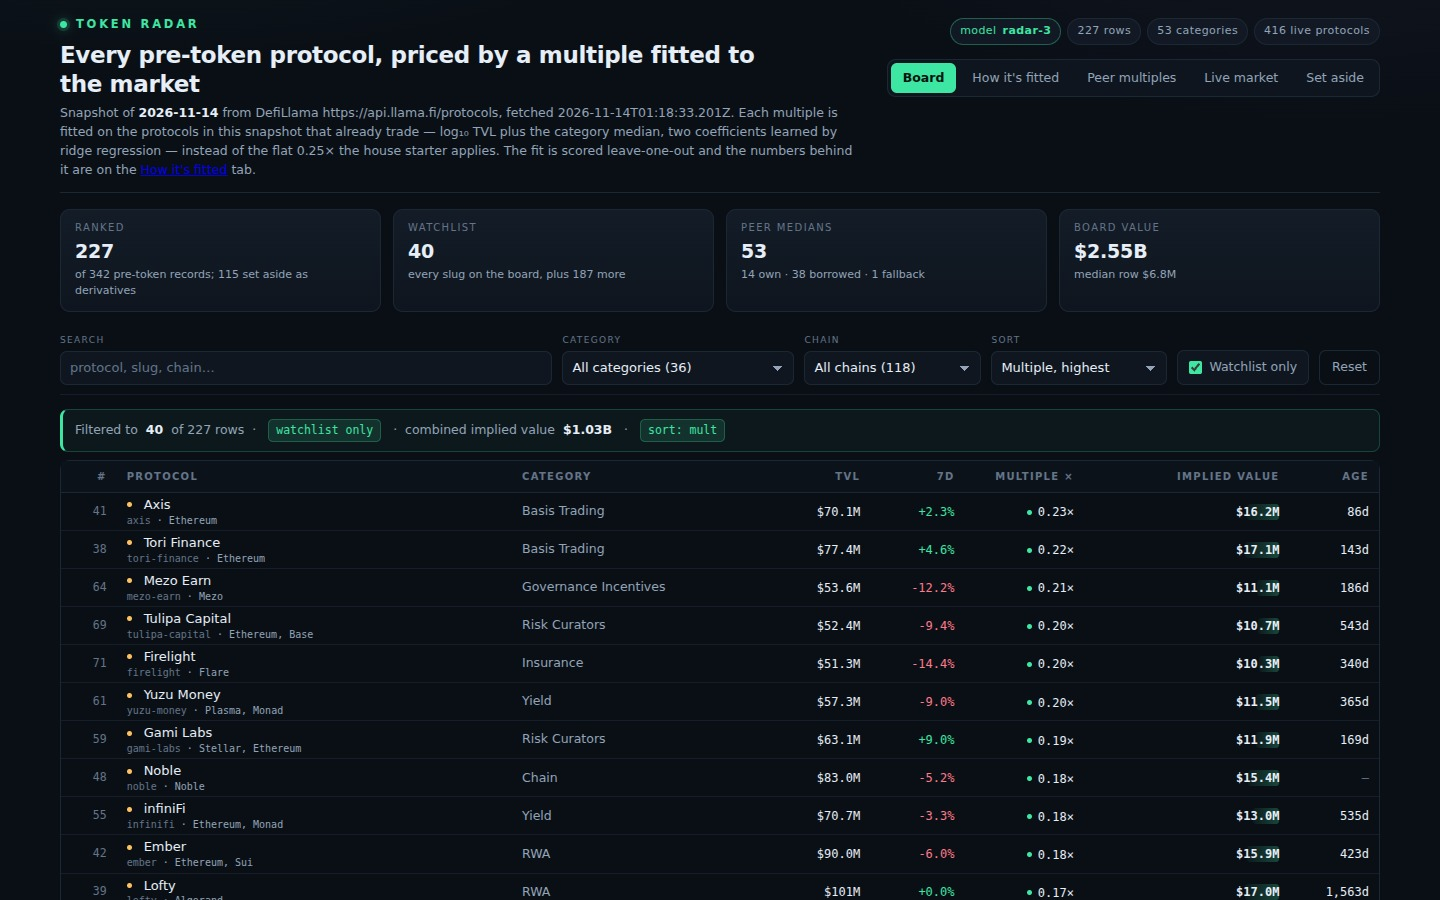
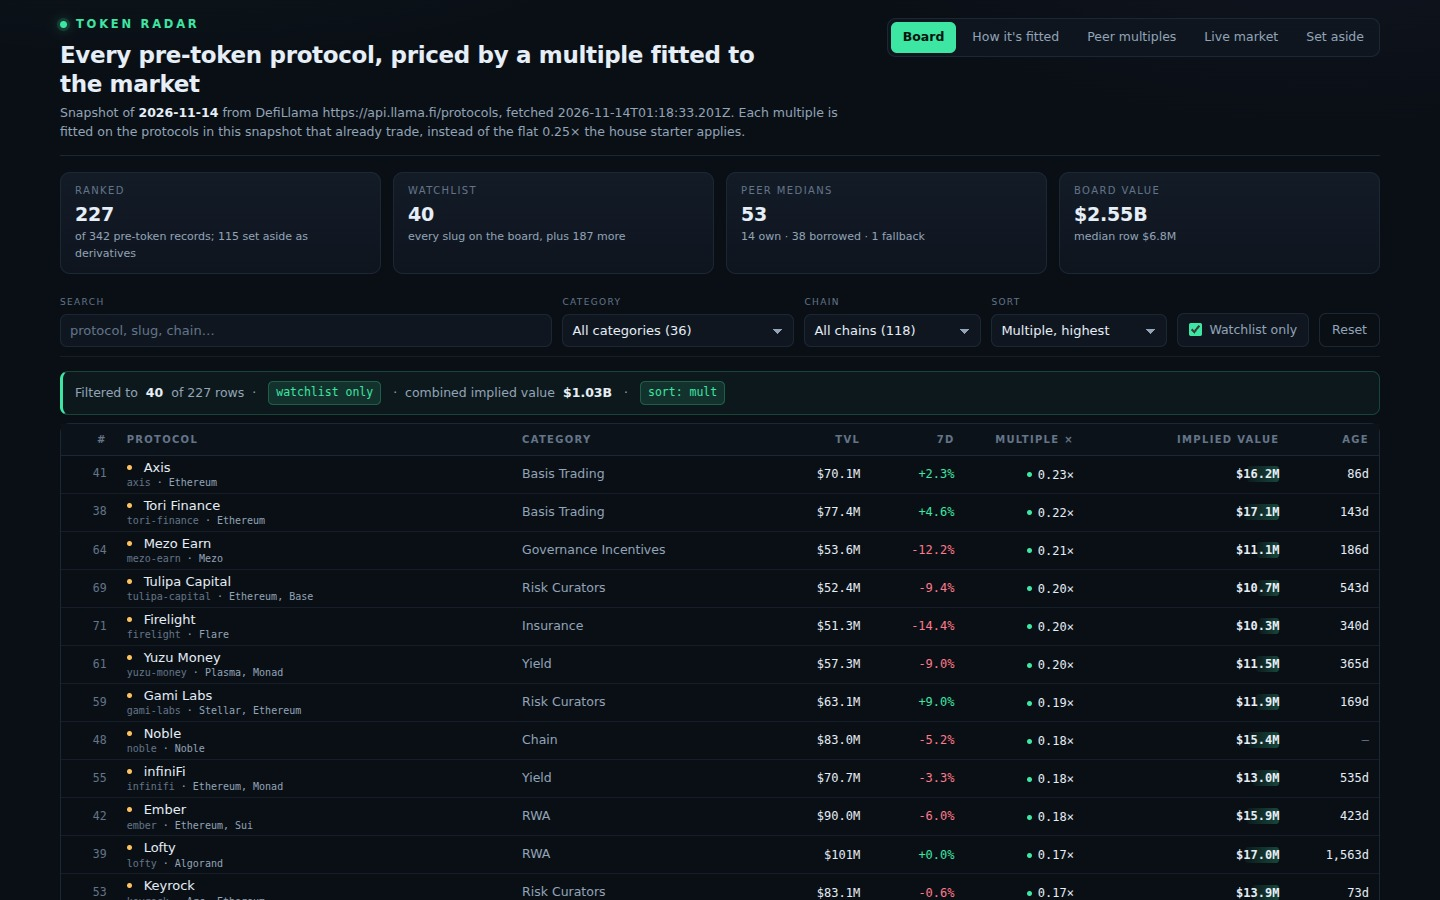
radar-7: subtract chrome, not add features
Removed the four header chips (they duplicated the stat cards and the
footer), the correlation card that argued we dropped two of the three
inputs the brief names, and trimmed the subtitle to one sentence.
Model, board data and thresholds are untouched: 4 insertions, 32
deletions. Re-rendered all four screenshots; the filtered shot now
actually applies the watchlist filter (40 rows, not 227).

diff --git a/dashboard/app.js b/dashboard/app.js
@@ -156,16 +156,8 @@
 
     $('subtitle').innerHTML =
       'Snapshot of <b>' + esc(R.as_of) + '</b> from ' + esc(R.source) + '. ' +
-      'Each multiple is fitted on the protocols in this snapshot that already trade — log₁₀ TVL plus the ' +
-      'category median, two coefficients learned by ridge regression — instead of the flat 0.25× the house ' +
-      'starter applies. The fit is scored leave-one-out and the numbers behind it are on the ' +
-      '<a href="?view=fit">How it\'s fitted</a> tab.';
-
-    $('chips').innerHTML =
-      '<span class="chip mint">model <b>' + esc(R.model_version) + '</b></span>' +
-      '<span class="chip">' + num(R.rows.length) + ' rows</span>' +
-      '<span class="chip">' + num(R.peers.length) + ' categories</span>' +
-      '<span class="chip">' + num(R.live_total) + ' live protocols</span>';
+      'Each multiple is fitted on the protocols in this snapshot that already trade, instead of the flat ' +
+      '0.25× the house starter applies.';
 
     $('stats').innerHTML = [
       stat('Ranked', num(R.rows.length), 'of ' + num(R.pretoken_total) + ' pre-token records; ' + num(R.excluded.length) + ' set aside as derivatives'),
@@ -360,7 +352,7 @@
         '<div class="legend"><span><i style="background:var(--amber)"></i>raises the multiple</span>' +
         '<span><i style="background:var(--violet)"></i>lowers it</span></div>' +
         '<p class="note" style="margin:12px 0 0">Both coefficients were fitted by ridge regression on ' + num(C.rows) +
-        ' live protocols, not chosen by hand. 7d change and age were tested and dropped: adding them made held-out error worse.</p>' +
+        ' live protocols, not chosen by hand.</p>' +
       '</div>';
 
     var farm =
@@ -452,23 +444,6 @@
           'if accuracy is all you want, delete the second feature and the error improves.</p>' +
       '</div>';
 
-    var corrRows = C.correlations.map(function (c) {
-      var kept = c.feature === 'log10 TVL' || c.feature === 'log10 category median';
-      return '<tr><td class="name">' + esc(c.feature) + '</td>' +
-        '<td class="num">' + (c.r >= 0 ? '+' : '') + c.r.toFixed(3) + '</td>' +
-        '<td class="num">' + (kept ? '<span class="pos">kept</span>' : '<span class="mute">dropped</span>') + '</td></tr>';
-    }).join('');
-
-    var corrCard =
-      '<div class="card">' +
-        '<h2>Why two features and not four</h2>' +
-        '<div class="tablewrap"><table class="board"><thead><tr>' +
-          '<th>Candidate feature</th><th class="num">r with log₁₀ multiple</th><th class="num">Verdict</th>' +
-        '</tr></thead><tbody>' + corrRows + '</tbody></table></div>' +
-        '<p class="note" style="margin:12px 0 0">Age measures at −0.003 — no relationship at all. 7d change is weak and, ' +
-          'once TVL is known, it makes held-out error worse. Both were dropped on the evidence, not on taste.</p>' +
-      '</div>';
-
     var bandCard =
       '<div class="card">' +
         '<h2>The band, and what it is worth</h2>' +
@@ -494,9 +469,7 @@
           'width of the uncertainty. Treat a single row as an order of magnitude, not a number.</p>' +
       '</div>';
 
-    return claim + ablationCard +
-      '<div class="detail"><div class="dcol">' + corrCard + '</div><div class="dcol">' + bandCard + '</div></div>' +
-      honest;
+    return claim + ablationCard + bandCard + honest;
   }
 
   /* ------------------------------------------------------------------ peers */

diff --git a/dashboard/index.html b/dashboard/index.html
@@ -16,7 +16,6 @@
       <p class="sub" id="subtitle">Loading the snapshot…</p>
     </div>
     <div class="hero-right">
-      <div class="chips" id="chips"></div>
       <nav class="tabs" id="tabs" aria-label="Views">
         <button type="button" data-view="board" class="tab is-on">Board</button>
         <button type="button" data-view="fit" class="tab">How it's fitted</button>
